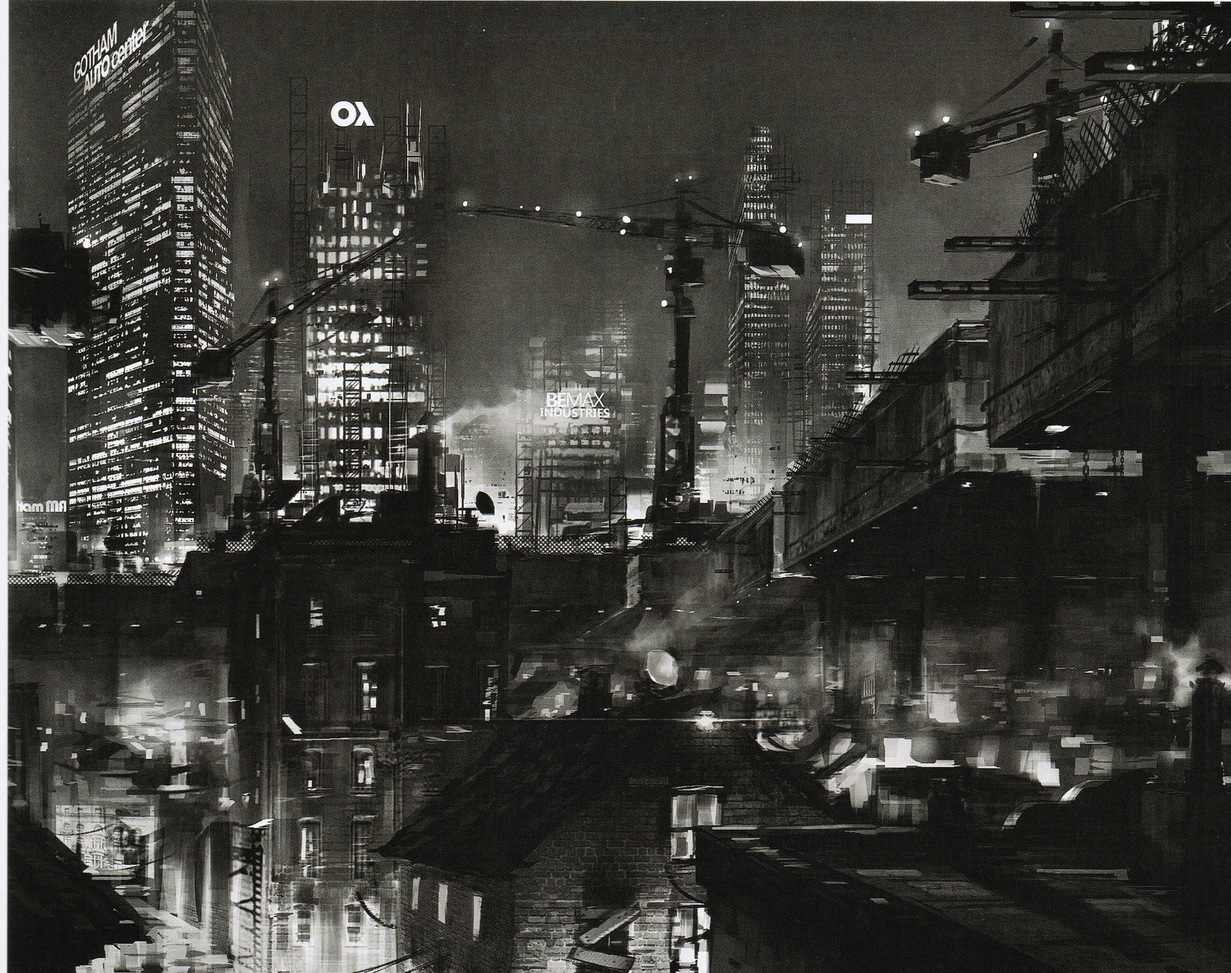
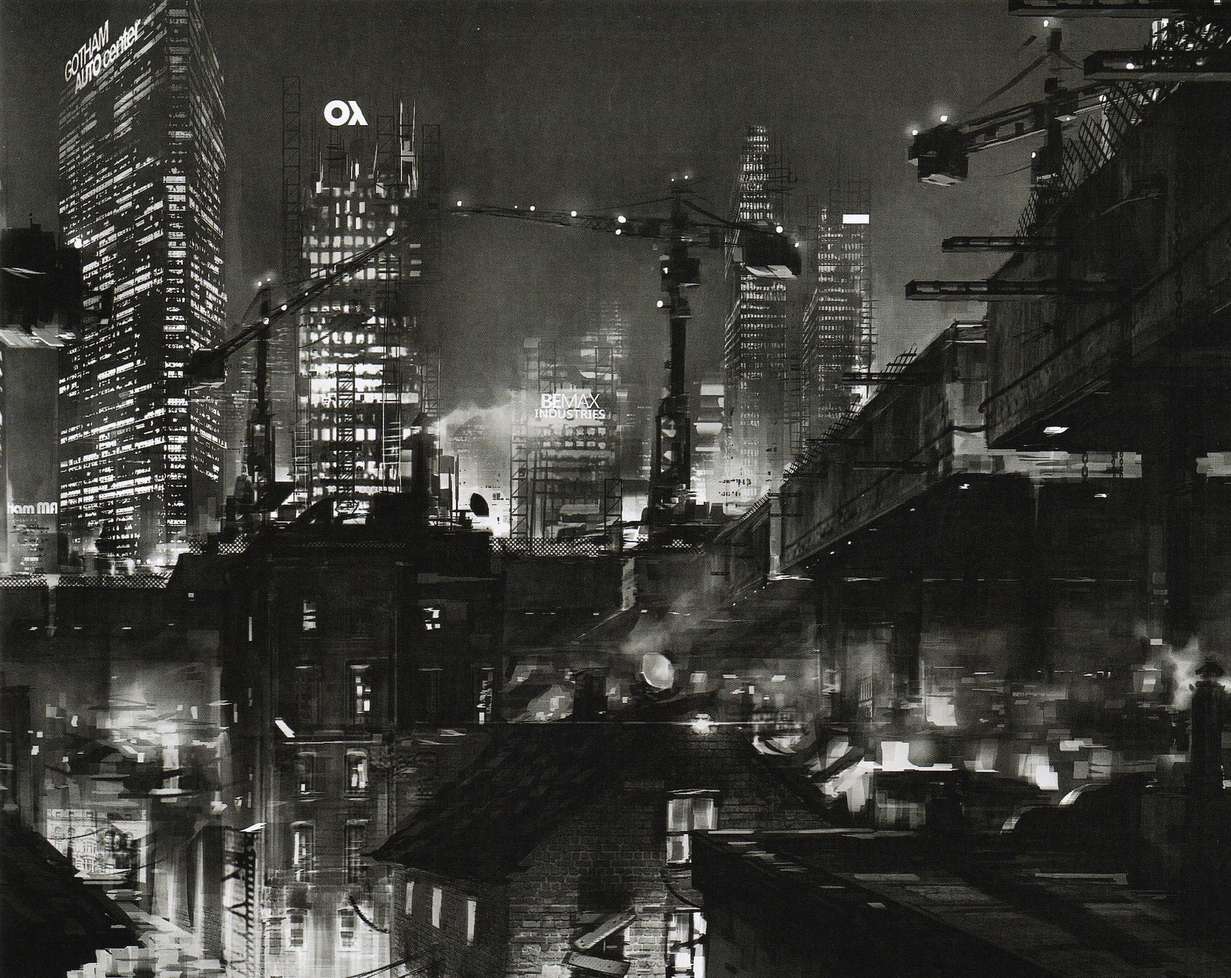
Re-crop the city-layers artbook image without the scan margin
The crop began about 17px left of the illustration, leaving a white strip on
the left and a light line on top. Crop again from the same scan to the
illustration's edge and update the record's size, crop box and hash.

diff --git a/VOICES-ROUTES-2026-10-26.md b/VOICES-ROUTES-2026-10-26.md
@@ -50,3 +50,4 @@ conroy_profile.py（新的 `voices_chapters`、门、作品切换、年表标记
   - 证书原裁剪（设定集扫描 1 (80).jpg，x 101–1519）切掉了左侧约 60px 边框，上下又带纸页白边。按证书外框重裁为 [38,1981,1518,2860]，1480×879；arkham-artbook.json 的尺寸、裁剪坐标与 sha256 同步更新，webp 重新生成。预览不再需要放大，去掉 scale。
   - 注意：build_webp.py 会为别的工作流新增、尚无 webp 的图片（如 riddler-scans）批量生成副本；只提交本轮相关的 webp。
   - 谜语人机关考据配图改为用户提供的谜语人藏身处画面（《阿卡姆骑士》截图，riddler-hideout.jpg，1600×900），登记在新增的 arkham-hub-art.json（含 sha256），build.py 复制到 dist，verify.py 校验哈希。竖图（如录音磁带截帧）在预览中与证书同样完整显示加模糊底；art_pool 纳入 recording-portraits。
+  - a07-layers（哥谭故事）原裁剪左侧带约 17px 扫描页白边、顶部 3px 浅边：按插画边界重裁为 [2558,124,4928,2007]，缩放到 1800×1430；arkham-artbook.json 尺寸、裁剪与 sha256 同步更新，webp 重新生成。
